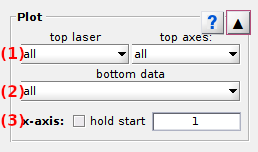
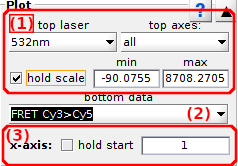
update doc with TP plot option `hold scale`

diff --git a/docs/trace-processing/components/panel-plot.md b/docs/trace-processing/components/panel-plot.md
@@ -20,7 +20,7 @@ The panel closes automatically after other panels open or after pressing
 Use this panel to define which time traces to plot in the 
 [Visualization area](area-visualization.html).
 
-<a class="plain" href="../../assets/images/gui/TP-panel-plot.png"><img src="../../assets/images/gui/TP-panel-plot.png" style="max-width: 258px;"/></a>
+<a class="plain" href="../../assets/images/gui/TP-panel-plot.png"><img src="../../assets/images/gui/TP-panel-plot.png" style="max-width: 238px;"/></a>
 
 
 ## Panel components
@@ -37,11 +37,14 @@ Use this panel to define which time traces to plot in the
 Use these menus to define the intensity data to plot in 
 [Intensity-time traces and histograms](area-visualization.html#intensity-time-traces-and-histograms).
 
-<a class="plain" href="../../assets/images/gui/TP-panel-plot-top.png"><img src="../../assets/images/gui/TP-panel-plot-top.png" style="max-width: 236px;"/></a>
+<a class="plain" href="../../assets/images/gui/TP-panel-plot-top.png"><img src="../../assets/images/gui/TP-panel-plot-top.png" style="max-width: 228px;"/></a>
 
 To plot intensity data upon illumination of a particular laser, select the corresponding wavelength in menu **(a)**, or select the option `all` to plot intensities upon all laser illuminations.
 
 To plot intensity data of a particular emitter, select the corresponding detection channel in menu **(b)**, or select the option `all` to plot all emitter intensities.
+
+The upper and lower limits of the intensity axis can be set to constant values by activating the option in **(c)** and setting the limits in **(d)** and **(e)**. Intensity units are defined in menu `Units`>`intensities` of the 
+[menu bar](../../Getting_started.html#interface).
 
 
 ---

diff --git a/docs/trace-processing/components/area-visualization.md b/docs/trace-processing/components/area-visualization.md
@@ -61,7 +61,9 @@ When using the `Dark trace` background correction method, dark coordinates are s
 
 Trace axes show the current single molecule intensity-time traces selected in 
 [Plot in top axes](panel-plot.html#plot-in-top-axes), using intensity and time units defined in menu `Units` of the 
-[menu bar](../../Getting_started.html#interface), and histogram axes show the corresponding intensity histograms built by sorting intensities in 100 bins between the minimum and maximum intensities.
+[menu bar](../../Getting_started.html#interface) as well as intensity limits defined in 
+[Plot in top axes](panel-plot.html#plot-in-top-axes).
+Histogram axes show the corresponding intensity histograms built by sorting intensities in 100 bins between the minimum and maximum intensities.
 
 ![Intensity-time traces](../../assets/images/gui/TP-area-visu-traces-top.png "Intensity-time traces")
 
